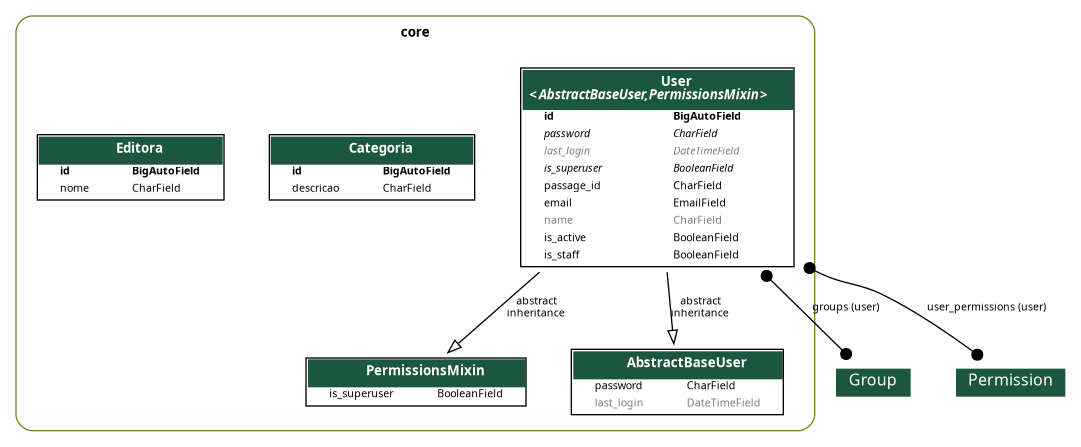
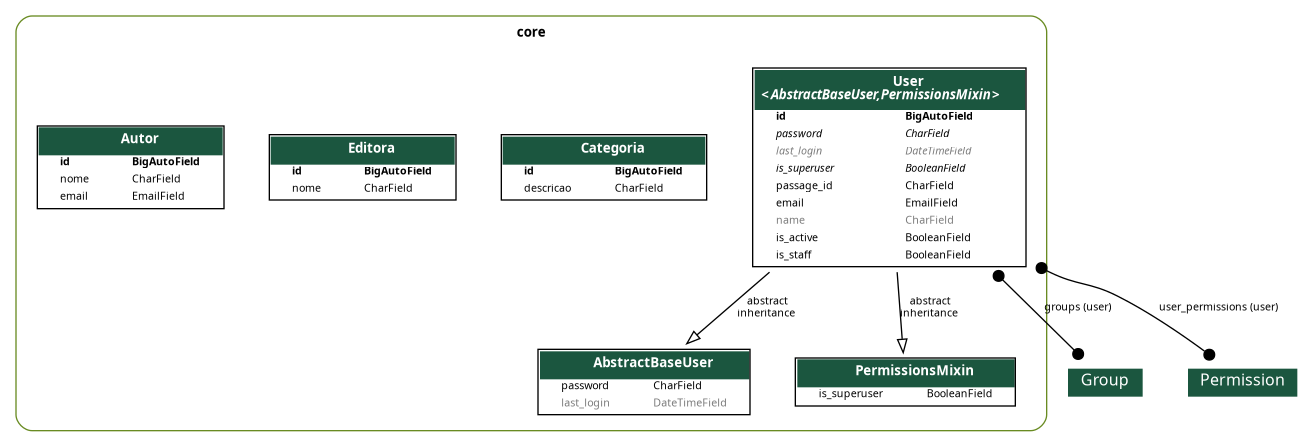
Feat: Adiciona model, serializer e view para Autor, atualiza rotas e admin

diff --git a/app/urls.py b/app/urls.py
@@ -7,13 +7,14 @@ from drf_spectacular.views import (
 )
 from rest_framework.routers import DefaultRouter
 
-from core.views import UserViewSet, CategoriaViewSet, EditoraViewSet
+from core.views import UserViewSet, CategoriaViewSet, EditoraViewSet, AutorViewSet
 
 router = DefaultRouter()
 
 router.register(r'usuarios', UserViewSet, basename='usuarios')
 router.register(r'categorias', CategoriaViewSet, basename='categorias')
 router.register(r'editoras', EditoraViewSet, basename='editoras')
+router.register(r'autores', AutorViewSet, basename='autores')
 
 urlpatterns = [
     path('admin/', admin.site.urls),

diff --git a/core/migrations/0007_autor.py b/core/migrations/0007_autor.py
@@ -1,0 +1,21 @@
+# Generated by Django 5.1.7 on 2026-03-09 17:07
+
+from django.db import migrations, models
+
+
+class Migration(migrations.Migration):
+
+    dependencies = [
+        ('core', '0006_editora'),
+    ]
+
+    operations = [
+        migrations.CreateModel(
+            name='Autor',
+            fields=[
+                ('id', models.BigAutoField(auto_created=True, primary_key=True, serialize=False, verbose_name='ID')),
+                ('nome', models.CharField(max_length=100)),
+                ('email', models.EmailField(max_length=100)),
+            ],
+        ),
+    ]

diff --git a/core/views/autor.py b/core/views/autor.py
@@ -1,0 +1,8 @@
+from rest_framework.viewsets import ModelViewSet
+
+from core.models import Autor
+from core.serializers import AutorSerializer
+
+class AutorViewSet(ModelViewSet):
+    queryset = Autor.objects.all()
+    serializer_class = AutorSerializer

diff --git a/core/models/autor.py b/core/models/autor.py
@@ -1,0 +1,8 @@
+from django.db import models
+
+class Autor(models.Model):
+    nome = models.CharField(max_length=100)
+    email = models.EmailField(max_length=100)
+
+    def __str__(self):
+        return f" {self.id} - {self.nome} ({self.email})"

diff --git a/core/serializers/autor.py b/core/serializers/autor.py
@@ -1,0 +1,8 @@
+from rest_framework.serializers import ModelSerializer
+
+from core.models import Autor
+
+class AutorSerializer(ModelSerializer):
+    class Meta:
+        model = Autor
+        fields = "__all__"

diff --git a/core/admin.py b/core/admin.py
@@ -54,3 +54,4 @@ class UserAdmin(BaseUserAdmin):
 admin.site.register(models.User, UserAdmin)
 admin.site.register(models.Categoria)
 admin.site.register(models.Editora)
+admin.site.register(models.Autor)

diff --git a/core/serializers/__init__.py b/core/serializers/__init__.py
@@ -1,3 +1,4 @@
 from .user import UserSerializer
 from .categoria import CategoriaSerializer
 from .editora import EditoraSerializer
+from .autor import AutorSerializer

diff --git a/core/views/__init__.py b/core/views/__init__.py
@@ -1,4 +1,5 @@
 from .user import UserViewSet
 from .categoria import CategoriaViewSet
 from .editora import EditoraViewSet
+from .autor import AutorViewSet
 

diff --git a/core/models/__init__.py b/core/models/__init__.py
@@ -1,3 +1,4 @@
 from .user import User
 from .categoria import Categoria
 from .editora import Editora
+from .autor import Autor
